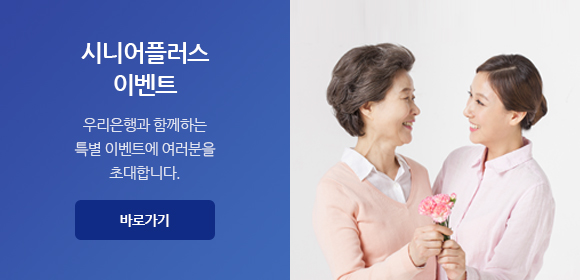
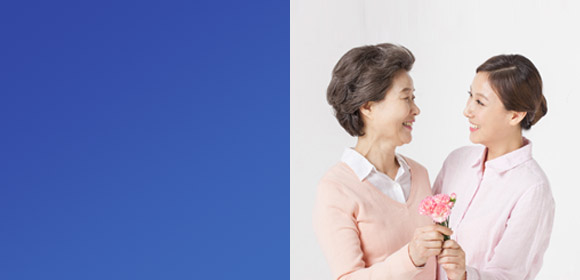
20220602

diff --git a/index.html b/index.html
@@ -112,10 +112,18 @@
             </div>
             <div class="content row col-between">
                 <div class="new_banner">
-                    <img src="images/new_banner01.jpg" alt="">
+                    <div class="text_wrap tcenter row col-center">
+                        <h5>고객맞춤<br>은퇴설계</h5>
+                        <p class="desc">
+                            현재 은퇴준비 상태점검<br>
+                            미래 필요자금 계산<br>
+                            포트폴리오 제안
+                        </p>
+                        <a href="javascript:void(0)" class="btn">바로가기</a>
+                    </div>                    
                 </div>
                 <div class="event_banner">
-                    <img src="images/event_banner01.jpg" alt="">
+
                 </div>
             </div>
         </div>

diff --git a/css/style.css b/css/style.css
@@ -145,6 +145,36 @@ header nav .util button{
     position: absolute;
     top: 680px;
 }
-
+.financial .new_banner{
+    background: url('../images/new_banner01.jpg') no-repeat center;
+    width: 580px;
+    height: 280px;
+    position: relative;
+}
+.financial .event_banner{
+    background: url('../images/event_banner01.jpg') no-repeat center;
+    width: 580px;
+    height: 280px;
+    position: relative;
+}
+.financial .text_wrap{
+    height: 280px;
+    flex-direction: column;
+    width: 50%;
+    padding-left: 50%;
+    color: #fff;
+} 
+.financial .text_wrap h5{
+    font-size: 23px;
+    font-weight: 700;
+    margin-bottom: 15px;
+}
+.financial .text_wrap p{
+    font-size: 15px;
+    letter-spacing: -0.5px;
+    line-height: 1.6;
+    color: rgba(255,255,255,.8);
+    margin-bottom: 15px;
+}
 
 

diff --git a/css/common.css b/css/common.css
@@ -77,3 +77,14 @@ section{
     font-size: 22px;
     margin-top: 25px;
 }
+.btn{
+    display: inline-block;
+    padding: 8px 45px;
+    background-color: #122e80;
+    color: #fff;
+    font-size: 14px;
+    font-weight: 700;
+    border-radius: 5px;
+    text-align: center;
+    margin: 0 auto;
+}
